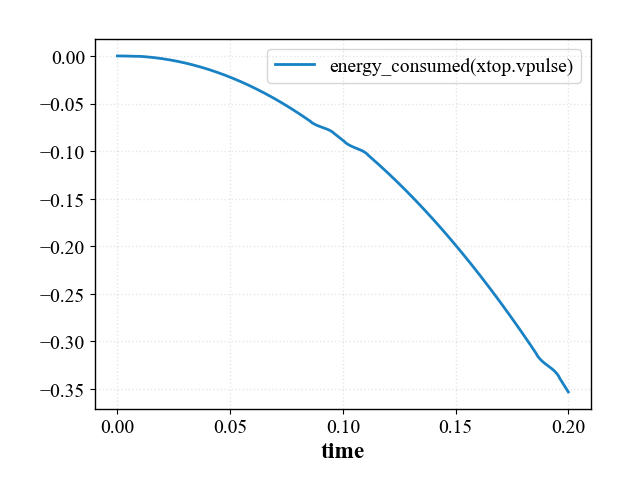
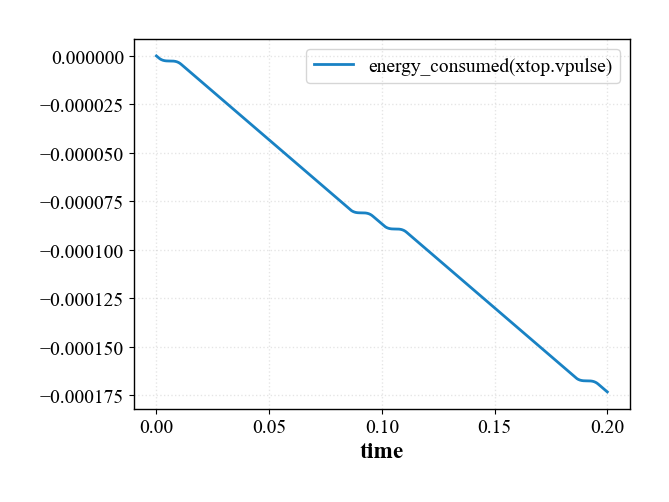
FIX: Power diff energy analog example

diff --git a/docs/examples/04_spice_cosimulation/04_spice_cosimulation.py b/docs/examples/04_spice_cosimulation/04_spice_cosimulation.py
@@ -549,9 +549,9 @@ simple_transient_plot_power_resistance.savefig(
 # So, we have extracted the power consumption throughout time for pulses we have configured. For the whole period of the simulation, we can extract the energy consumed as the integral of power for a time differential. Note that we expect the energy consumption of this particular circuit, where the resistor is constantly drawing current, to be constantly increasing in time. We can perform a cumulative sum over our `power(xtop.vpulse)` dataframe which is a discrete integral, and we can multiply that term with the time value to determine the total energy consumption at a point in time.
 
 transient_simulation_results["energy_consumed(xtop.vpulse)"] = (
-    transient_simulation_results["power(xtop.vpulse)"].cumsum()
-    * transient_simulation_results["time"]
-)
+    transient_simulation_results["power(xtop.vpulse)"]
+    * transient_simulation_results["time"].diff()
+).cumsum()
 transient_simulation_results
 
 simple_energy_consumed_plot = transient_simulation_results.plot(
